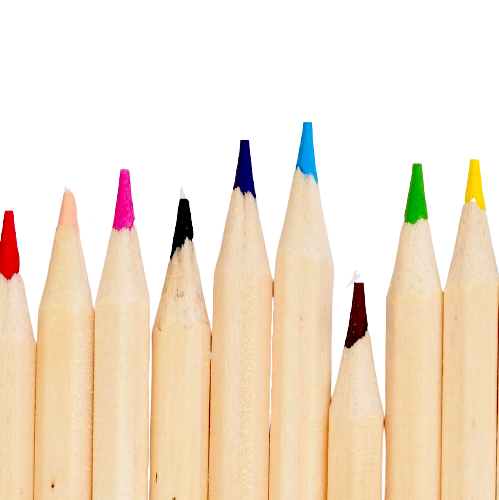
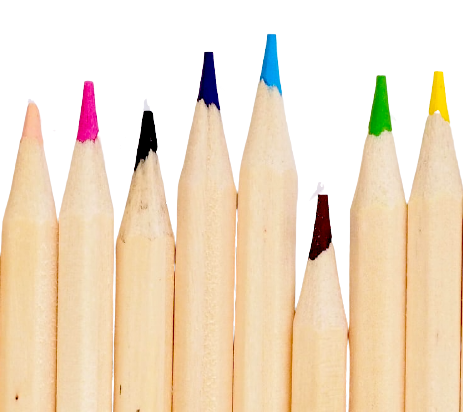
Finish Home page

diff --git a/frontend/src/Home.js b/frontend/src/Home.js
@@ -5,10 +5,30 @@ import Typography from "@material-ui/core/Typography";
 import Grid from "@material-ui/core/Grid";
 import AppBar from "@material-ui/core/AppBar";
 import pencils from "./pencils.png"; // Tell Webpack this JS file uses this image
+import Paper from "@material-ui/core/Paper";
+import InputBase from "@material-ui/core/InputBase";
+import IconButton from "@material-ui/core/IconButton";
+import SearchIcon from "@material-ui/icons/Search";
+import Button from "@material-ui/core/Button";
 
 const useStyles = makeStyles((theme) => ({
   content: {
     height: "calc(100vh - 64px)",
+  },
+  searchbar: {
+    padding: "4px 4px",
+    display: "flex",
+    alignItems: "center",
+    width: 600,
+    backgroundColor: theme.palette.background.default,
+  },
+  input: {
+    marginLeft: theme.spacing(1),
+    flex: 1,
+  },
+  button: {
+    padding: 10,
+    backgroundColor: theme.palette.secondary.main,
   },
 }));
 
@@ -33,9 +53,21 @@ export default function Transcribe() {
           </Box>
         </Grid>
         <Grid item>
-          <img src={pencils} alt="logo" width={340} />
+          <img src={pencils} alt="logo" width={400} />
         </Grid>
       </Grid>
+      <Box mt={8} display="flex" justifyContent="center" alignItems="center">
+        <Paper component="form" className={classes.searchbar}>
+          <InputBase
+            className={classes.input}
+            placeholder="YouTube link here"
+            inputProps={{ "aria-label": "transcribe" }}
+          />
+          <Button type="submit" className={classes.button} aria-label="search">
+            Transcribe
+          </Button>
+        </Paper>
+      </Box>
     </Box>
   );
 }
